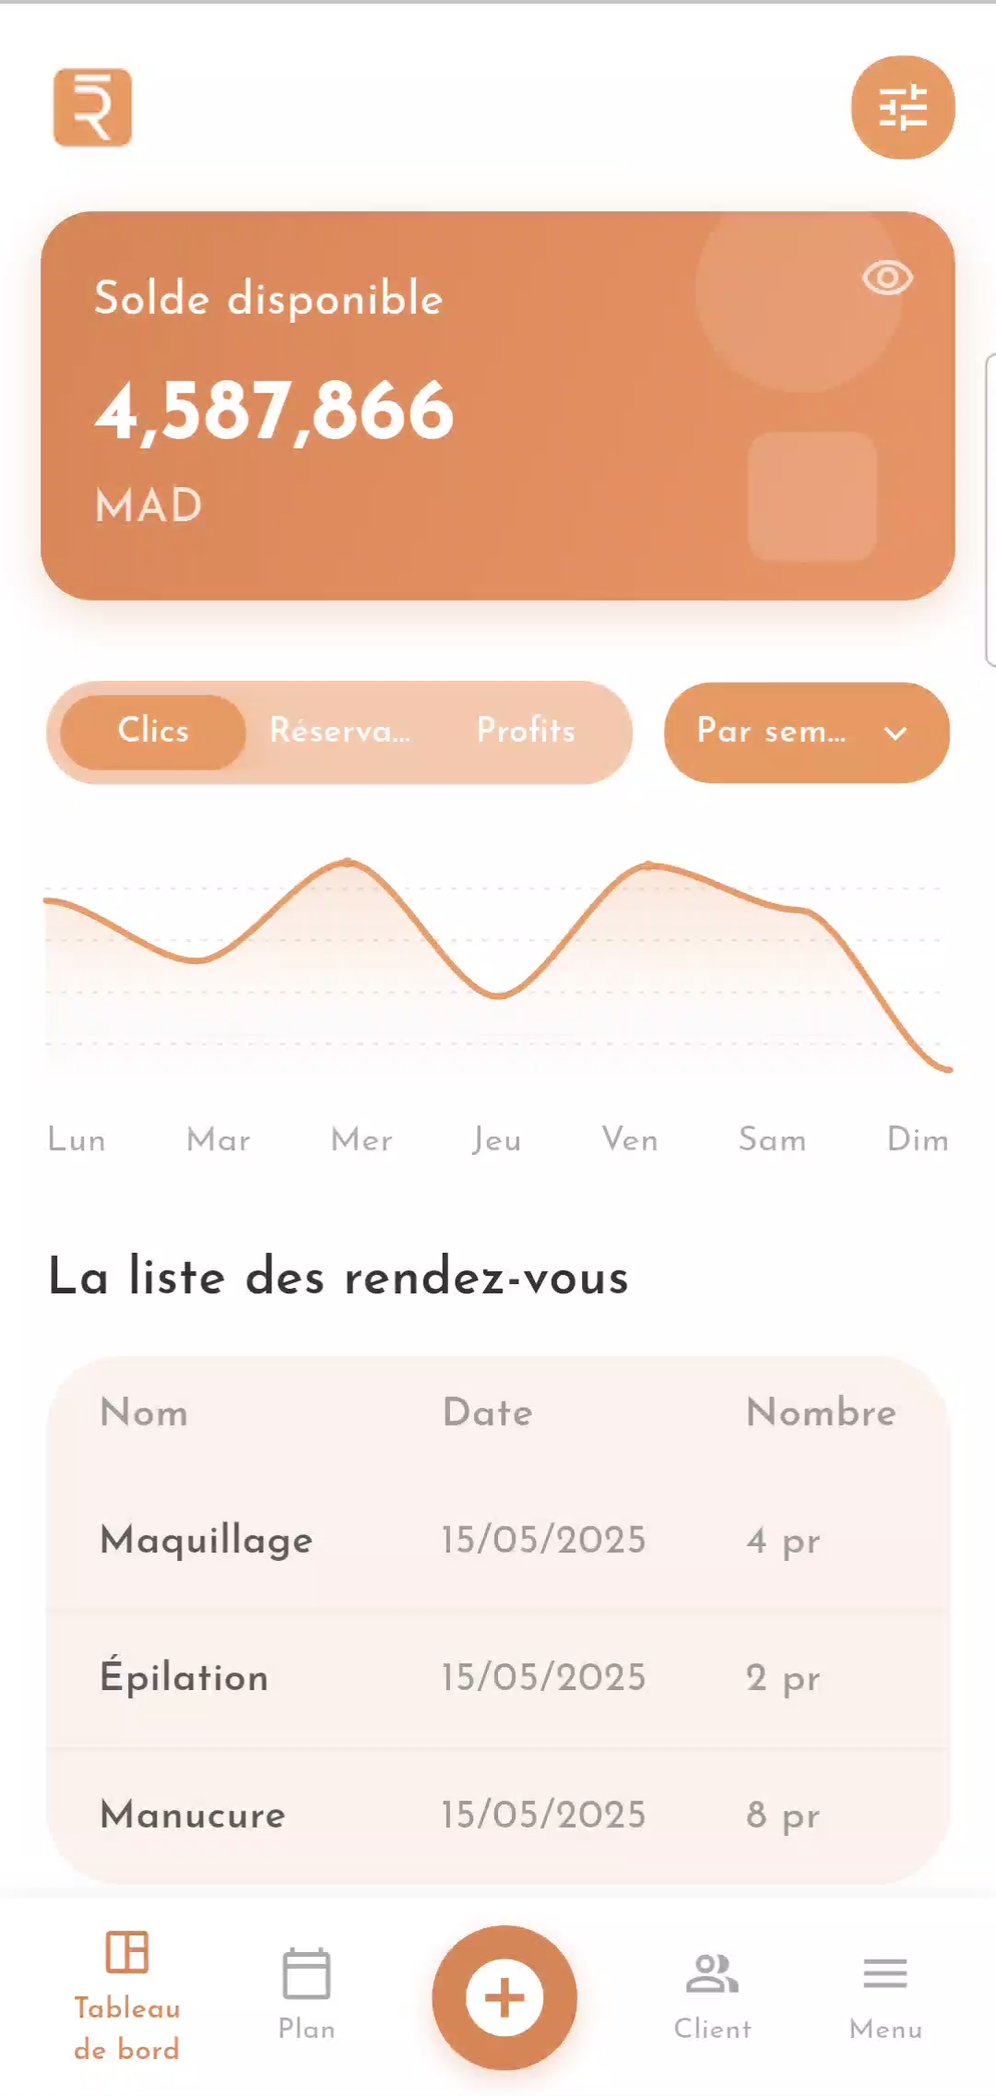
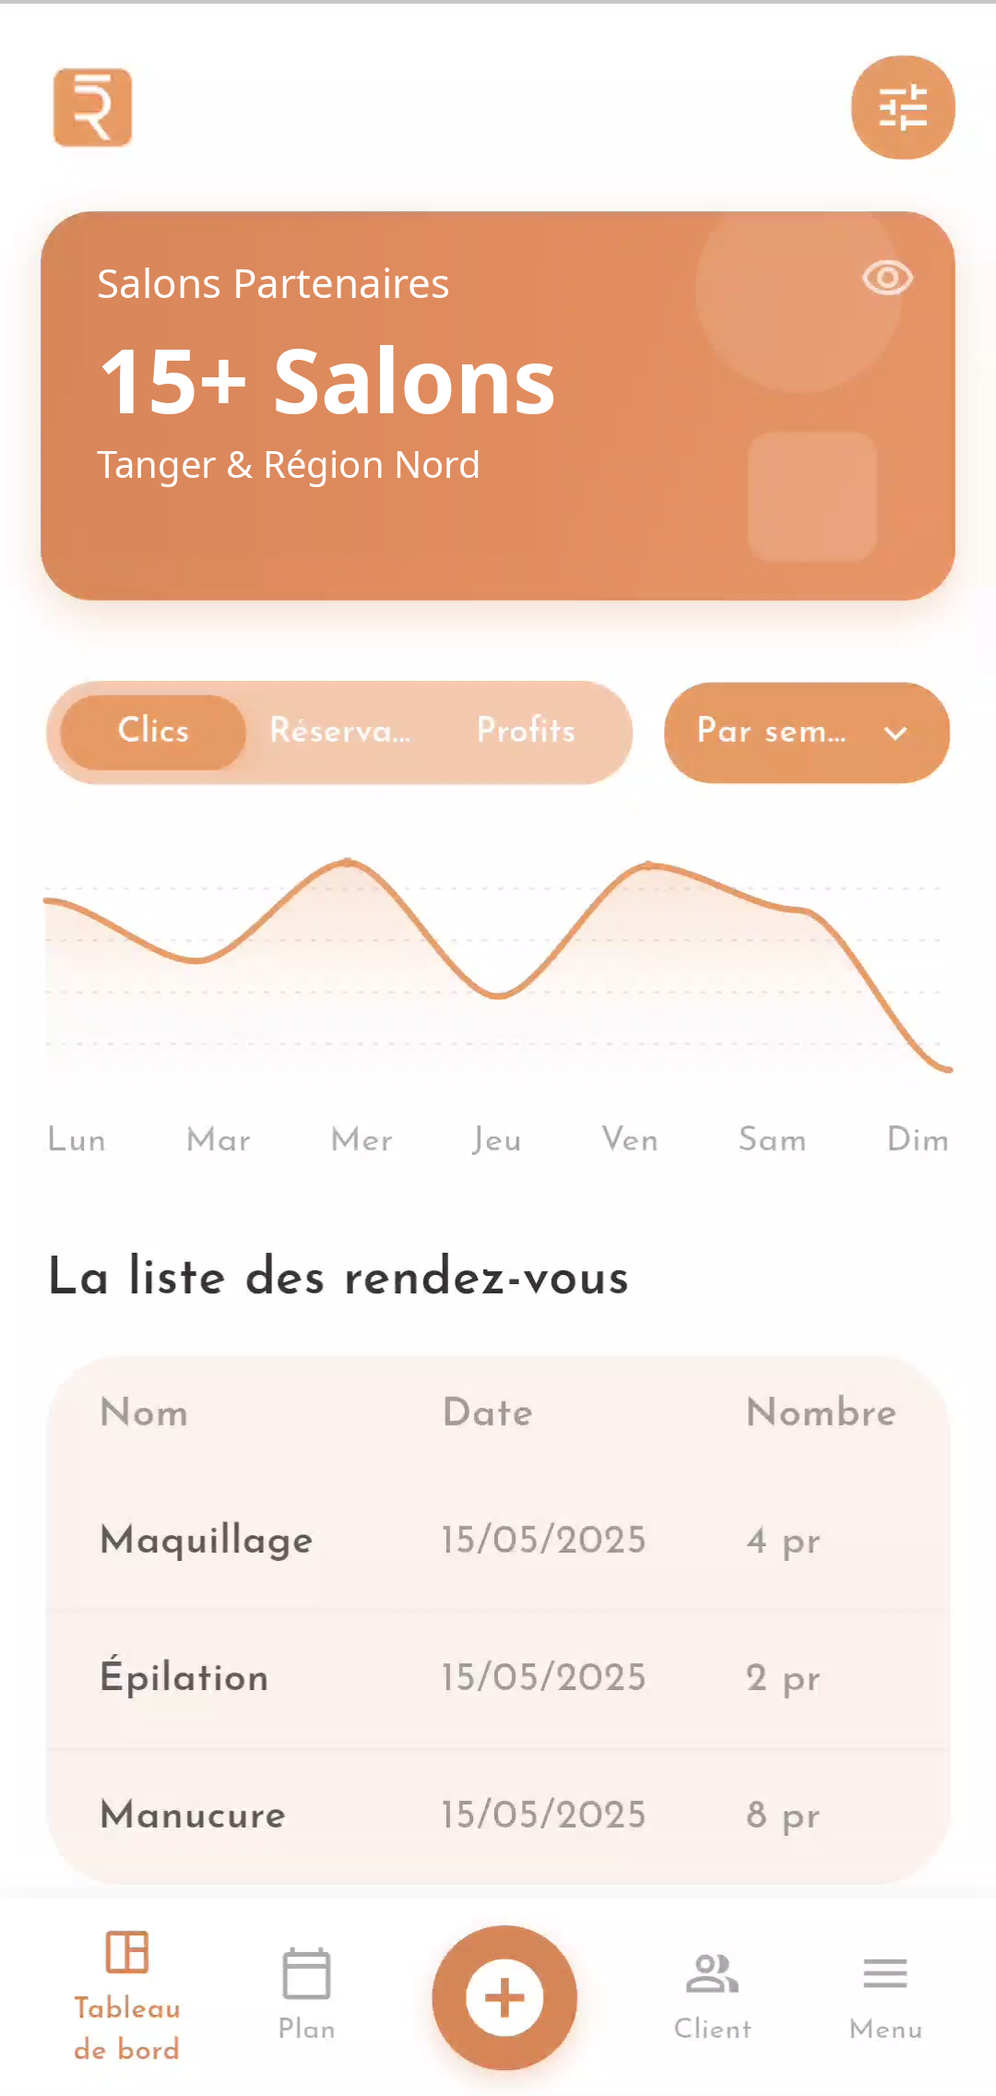
fix(phone-sim): uncrook screenshot display with edge-to-edge alignment and real salon metric in photo

Changed region(s): [[0.0917, 0.125, 0.55, 0.25], [0.9778, 0.1875, 1.0, 0.3125]]

diff --git a/src/components/mobile/PhoneFrame.tsx b/src/components/mobile/PhoneFrame.tsx
@@ -56,6 +56,8 @@ export const PhoneFrame: React.FC<Props> = memo(({ project }) => {
     touchStartXRef.current = null;
   };
 
+  const isScreenshotApp = project.id === 'resaly' || project.id === 'ridemate';
+
   return (
     <div className="relative flex flex-col items-center w-full">
       {/* Modern Flagship Smartphone Chassis with Responsive Max-Width */}
@@ -76,8 +78,10 @@ export const PhoneFrame: React.FC<Props> = memo(({ project }) => {
             : 'bg-[#000000] text-white border-white/5'
         }`}>
           {/* Status Bar */}
-          <div className={`pt-3 px-7 flex items-center justify-between text-[11px] font-semibold z-30 transition-colors ${
-            isLight ? 'text-[#4a3930]' : 'text-zinc-300'
+          <div className={`pt-3 px-6 flex items-center justify-between text-[11px] font-semibold z-30 transition-colors ${
+            isScreenshotApp 
+              ? isLight ? 'text-[#3a281e] bg-gradient-to-b from-white/70 to-transparent' : 'text-zinc-200 bg-gradient-to-b from-black/70 to-transparent'
+              : isLight ? 'text-[#4a3930]' : 'text-zinc-300'
           }`}>
             <span>09:41</span>
             
@@ -114,46 +118,71 @@ export const PhoneFrame: React.FC<Props> = memo(({ project }) => {
               )}
             </div>
 
-            <div className={`flex items-center gap-1.5 ${isLight ? 'text-[#7e695d]' : 'text-zinc-400'}`}>
-              <Wifi className={`w-3 h-3 ${isLight ? 'text-[#4a3930]' : 'text-zinc-200'}`} />
-              <span className={`text-[10px] font-mono font-bold ${isLight ? 'text-[#4a3930]' : 'text-zinc-300'}`}>5G</span>
-              <Battery className={`w-3.5 h-3.5 ${isLight ? 'text-[#4a3930]' : 'text-zinc-200'}`} />
+            <div className={`flex items-center gap-1.5 ${isScreenshotApp ? (isLight ? 'text-[#3a281e]' : 'text-zinc-200') : (isLight ? 'text-[#7e695d]' : 'text-zinc-400')}`}>
+              <Wifi className="w-3 h-3" />
+              <span className="text-[10px] font-mono font-bold">5G</span>
+              <Battery className="w-3.5 h-3.5" />
             </div>
           </div>
 
-          {/* SCREEN CONTENT AREA */}
-          <div className="flex-1 overflow-y-auto px-3.5 py-2 scrollbar-none">
-            {/* 1. RESALY PRO - FLUTTER PRODUCTION SCREENS */}
-            {project.id === 'resaly' && (
-              <div className="h-full flex flex-col justify-between space-y-2 animate-fadeIn">
-                {/* Clean Top Screen Bar */}
-                <div className="flex items-center justify-between px-1">
-                  <div>
-                    <span className="text-[11px] font-bold text-[#2a1b14] font-display">Resaly Pro</span>
-                    <span className="text-[10px] font-mono text-[#8c776b] ml-1.5">Flutter Client</span>
-                  </div>
-                  <span className="text-[10px] font-mono text-[#a45325] font-semibold">
-                    {selectedScreenshotIndex + 1} / {project.screenshots.length}
-                  </span>
-                </div>
-
-                {/* Screenshot Display Frame with Touch Gestures */}
-                <div
-                  onTouchStart={handleTouchStart}
-                  onTouchEnd={(e) => handleTouchEnd(e, project.screenshots.length)}
-                  className="relative rounded-2xl overflow-hidden border border-[#ead8cb] bg-[#f7eee6] shadow-md flex-1 min-h-[460px] sm:min-h-[490px] flex items-center justify-center group touch-pan-y"
-                >
-                  <img
-                    src={project.screenshots[selectedScreenshotIndex]?.imagePath || '/images/resaly/23613_edit.png'}
-                    alt={project.screenshots[selectedScreenshotIndex]?.title || 'Resaly Screen'}
-                    loading="eager"
-                    className="w-full h-full object-cover object-top"
+          {/* SCREEN CONTENT AREA: FULL EDGE-TO-EDGE FOR SCREENSHOT APPS */}
+          {isScreenshotApp ? (
+            <div 
+              onTouchStart={handleTouchStart}
+              onTouchEnd={(e) => handleTouchEnd(e, project.screenshots.length)}
+              className="absolute inset-0 w-full h-full overflow-hidden touch-pan-y"
+            >
+              {/* RideMate Video Player Override */}
+              {project.id === 'ridemate' && showRideMateVideo && project.videoUrl ? (
+                <div className="absolute inset-0 w-full h-full z-20 bg-black flex flex-col pt-12 pb-6">
+                  <iframe
+                    src={project.videoUrl}
+                    title="RideMate Video Demonstration"
+                    className="w-full h-full flex-1"
+                    allow="autoplay; encrypted-media"
                   />
+                </div>
+              ) : (
+                /* Native Edge-to-Edge Screenshot Image with Zero Crookedness */
+                <img
+                  src={project.screenshots[selectedScreenshotIndex]?.imagePath || '/images/resaly/23613_edit.png'}
+                  alt={project.screenshots[selectedScreenshotIndex]?.title || `${project.name} Screen`}
+                  loading="eager"
+                  className="w-full h-full object-cover object-top select-none animate-fadeIn"
+                />
+              )}
 
-                  {/* Left / Right Chevron Navigation with Accessible >=44px Hit Target */}
+              {/* RideMate Video / Screens Switcher Floating Pill */}
+              {project.id === 'ridemate' && project.videoUrl && (
+                <button
+                  onClick={() => setShowRideMateVideo(!showRideMateVideo)}
+                  className={`absolute top-12 right-3 z-30 px-2.5 py-1 rounded-lg text-[10px] font-mono font-semibold flex items-center gap-1.5 shadow-lg backdrop-blur-md border transition-all active:scale-95 ${
+                    showRideMateVideo
+                      ? 'bg-[#c2f019] text-black border-[#c2f019]'
+                      : 'bg-black/75 text-white border-white/25 hover:bg-black/90'
+                  }`}
+                  aria-label={showRideMateVideo ? 'Basculer vers les captures d’écran' : 'Lire la démonstration vidéo'}
+                >
+                  {showRideMateVideo ? (
+                    <>
+                      <ImageIcon className="w-3 h-3" />
+                      <span>Screens</span>
+                    </>
+                  ) : (
+                    <>
+                      <Play className="w-3 h-3 text-[#c2f019] fill-[#c2f019]" />
+                      <span>Vidéo Démo</span>
+                    </>
+                  )}
+                </button>
+              )}
+
+              {/* Left / Right Chevron Navigation Controls with Accessible Hit Target */}
+              {(!showRideMateVideo || project.id !== 'ridemate') && (
+                <>
                   <button
                     onClick={() => setSelectedScreenshotIndex((prev) => (prev > 0 ? prev - 1 : project.screenshots.length - 1))}
-                    className="absolute left-2 top-1/2 -translate-y-1/2 w-9 h-9 sm:w-10 sm:h-10 rounded-full bg-white/95 border border-[#ead8cb] text-[#2a1b14] flex items-center justify-center opacity-85 hover:opacity-100 shadow-md transition-all active:scale-95 focus-visible:outline-none focus-visible:ring-2 focus-visible:ring-[#de854f] relative before:absolute before:-inset-2 before:content-['']"
+                    className="absolute left-2.5 top-1/2 -translate-y-1/2 z-30 w-9 h-9 sm:w-10 sm:h-10 rounded-full bg-black/60 hover:bg-black/85 backdrop-blur-md border border-white/20 text-white flex items-center justify-center opacity-80 hover:opacity-100 shadow-xl transition-all active:scale-95 focus-visible:outline-none focus-visible:ring-2 focus-visible:ring-white"
                     title="Écran précédent"
                     aria-label="Écran précédent"
                   >
@@ -161,154 +190,47 @@ export const PhoneFrame: React.FC<Props> = memo(({ project }) => {
                   </button>
                   <button
                     onClick={() => setSelectedScreenshotIndex((prev) => (prev < project.screenshots.length - 1 ? prev + 1 : 0))}
-                    className="absolute right-2 top-1/2 -translate-y-1/2 w-9 h-9 sm:w-10 sm:h-10 rounded-full bg-white/95 border border-[#ead8cb] text-[#2a1b14] flex items-center justify-center opacity-85 hover:opacity-100 shadow-md transition-all active:scale-95 focus-visible:outline-none focus-visible:ring-2 focus-visible:ring-[#de854f] relative before:absolute before:-inset-2 before:content-['']"
+                    className="absolute right-2.5 top-1/2 -translate-y-1/2 z-30 w-9 h-9 sm:w-10 sm:h-10 rounded-full bg-black/60 hover:bg-black/85 backdrop-blur-md border border-white/20 text-white flex items-center justify-center opacity-80 hover:opacity-100 shadow-xl transition-all active:scale-95 focus-visible:outline-none focus-visible:ring-2 focus-visible:ring-white"
                     title="Écran suivant"
                     aria-label="Écran suivant"
                   >
                     <ChevronRight className="w-5 h-5" />
                   </button>
 
-                  {/* Minimal Caption Sheet Overlay */}
-                  <div className="absolute inset-x-2 bottom-2 p-3 rounded-xl bg-white/95 backdrop-blur-md border border-[#ead8cb] shadow-lg text-left">
-                    <p className="text-xs font-bold text-[#2a1b14] truncate">
-                      {project.screenshots[selectedScreenshotIndex]?.title}
-                    </p>
-                    <p className="text-[11px] text-[#8c776b] line-clamp-1 mt-0.5">
-                      {project.screenshots[selectedScreenshotIndex]?.caption}
-                    </p>
-
-                    {/* Pagination Indicator Dots with Accessible Tap Area */}
-                    <div className="flex items-center justify-center gap-1 pt-2" role="group" aria-label="Sélecteur d'écran">
-                      {project.screenshots.map((s, idx) => (
-                        <button
-                          key={idx}
-                          onClick={() => setSelectedScreenshotIndex(idx)}
-                          className="p-1.5 relative flex items-center justify-center rounded-full focus-visible:outline-none focus-visible:ring-2 focus-visible:ring-[#de854f]"
-                          aria-label={`Aller à l'écran ${idx + 1}: ${s.title}`}
-                          aria-current={selectedScreenshotIndex === idx ? 'true' : undefined}
-                        >
-                          <span
-                            className={`block h-1.5 rounded-full transition-all ${
-                              selectedScreenshotIndex === idx ? 'w-5 bg-[#de854f]' : 'w-1.5 bg-[#de854f]/30 hover:bg-[#de854f]/60'
-                            }`}
-                          />
-                        </button>
-                      ))}
-                    </div>
-                  </div>
-                </div>
-              </div>
-            )}
-
-            {/* 2. RIDEMATE - REACT NATIVE SCREENS & OPTIONAL IN-PHONE VIDEO */}
-            {project.id === 'ridemate' && (
-              <div className="h-full flex flex-col justify-between space-y-2 animate-fadeIn">
-                {/* Clean Top Screen Bar with Video Toggle */}
-                <div className="flex items-center justify-between px-1">
-                  <div className="flex items-center gap-2">
-                    <span className="text-[11px] font-bold text-white font-display">RideMate</span>
-                    <span className="text-[10px] font-mono text-zinc-400">React Native</span>
-                  </div>
-
-                  {project.videoUrl && (
-                    <button
-                      onClick={() => setShowRideMateVideo(!showRideMateVideo)}
-                      className={`px-2 py-0.5 rounded text-[10px] font-mono font-semibold flex items-center gap-1 border transition-all ${
-                        showRideMateVideo
-                          ? 'bg-[#c2f019] text-black border-[#c2f019]'
-                          : 'bg-white/5 text-zinc-300 border-white/10 hover:text-white'
-                      }`}
-                    >
-                      {showRideMateVideo ? (
-                        <>
-                          <ImageIcon className="w-3 h-3" />
-                          <span>Screens</span>
-                        </>
-                      ) : (
-                        <>
-                          <Play className="w-3 h-3 text-[#c2f019] fill-[#c2f019]" />
-                          <span>Vidéo</span>
-                        </>
-                      )}
-                    </button>
-                  )}
-                </div>
-
-                {/* Main Display: Video Player OR Screenshot Carousel */}
-                {showRideMateVideo && project.videoUrl ? (
-                  <div className="relative rounded-2xl overflow-hidden border border-white/15 bg-black shadow-xl flex-1 min-h-[490px] flex flex-col">
-                    <iframe
-                      src={project.videoUrl}
-                      title="RideMate Video Demonstration"
-                      className="w-full h-full flex-1"
-                      allow="autoplay; encrypted-media"
-                    />
-                  </div>
-                ) : (
-                  <div
-                    onTouchStart={handleTouchStart}
-                    onTouchEnd={(e) => handleTouchEnd(e, project.screenshots.length)}
-                    className="relative rounded-2xl overflow-hidden border border-white/15 bg-black shadow-xl flex-1 min-h-[460px] sm:min-h-[490px] flex items-center justify-center group touch-pan-y"
+                  {/* Floating Pagination Indicator Dots above Home Bar */}
+                  <div 
+                    role="group" 
+                    aria-label="Sélecteur d'écran"
+                    className="absolute bottom-5 left-1/2 -translate-x-1/2 z-30 px-3 py-1.5 rounded-full bg-black/65 backdrop-blur-md border border-white/20 flex items-center gap-1.5 shadow-xl"
                   >
-                    <img
-                      src={project.screenshots[selectedScreenshotIndex]?.imagePath || '/images/ridemate/ridemate-dashboard.png'}
-                      alt={project.screenshots[selectedScreenshotIndex]?.title || 'RideMate Screen'}
-                      loading="eager"
-                      className="w-full h-full object-cover object-top"
-                    />
-
-                    {/* Navigation Arrows with Accessible >=44px Hit Target */}
-                    <button
-                      onClick={() => setSelectedScreenshotIndex((prev) => (prev > 0 ? prev - 1 : project.screenshots.length - 1))}
-                      className="absolute left-2 top-1/2 -translate-y-1/2 w-9 h-9 sm:w-10 sm:h-10 rounded-full bg-black/85 border border-white/25 text-white flex items-center justify-center opacity-85 hover:opacity-100 shadow-md transition-all active:scale-95 focus-visible:outline-none focus-visible:ring-2 focus-visible:ring-[#c2f019] relative before:absolute before:-inset-2 before:content-['']"
-                      title="Écran précédent"
-                      aria-label="Écran précédent"
-                    >
-                      <ChevronLeft className="w-5 h-5" />
-                    </button>
-                    <button
-                      onClick={() => setSelectedScreenshotIndex((prev) => (prev < project.screenshots.length - 1 ? prev + 1 : 0))}
-                      className="absolute right-2 top-1/2 -translate-y-1/2 w-9 h-9 sm:w-10 sm:h-10 rounded-full bg-black/85 border border-white/25 text-white flex items-center justify-center opacity-85 hover:opacity-100 shadow-md transition-all active:scale-95 focus-visible:outline-none focus-visible:ring-2 focus-visible:ring-[#c2f019] relative before:absolute before:-inset-2 before:content-['']"
-                      title="Écran suivant"
-                      aria-label="Écran suivant"
-                    >
-                      <ChevronRight className="w-5 h-5" />
-                    </button>
-
-                    {/* Minimal Caption Sheet Overlay */}
-                    <div className="absolute inset-x-2 bottom-2 p-3 rounded-xl bg-black/90 backdrop-blur-md border border-white/15 shadow-lg text-left">
-                      <p className="text-xs font-bold text-white truncate">
-                        {project.screenshots[selectedScreenshotIndex]?.title}
-                      </p>
-                      <p className="text-[11px] text-zinc-400 line-clamp-1 mt-0.5">
-                        {project.screenshots[selectedScreenshotIndex]?.caption}
-                      </p>
-
-                      {/* Pagination Indicator Dots with Accessible Tap Area */}
-                      <div className="flex items-center justify-center gap-1 pt-2" role="group" aria-label="Sélecteur d'écran">
-                        {project.screenshots.map((s, idx) => (
-                          <button
-                            key={idx}
-                            onClick={() => setSelectedScreenshotIndex(idx)}
-                            className="p-1.5 relative flex items-center justify-center rounded-full focus-visible:outline-none focus-visible:ring-2 focus-visible:ring-[#c2f019]"
-                            aria-label={`Aller à l'écran ${idx + 1}: ${s.title}`}
-                            aria-current={selectedScreenshotIndex === idx ? 'true' : undefined}
-                          >
-                            <span
-                              className={`block h-1.5 rounded-full transition-all ${
-                                selectedScreenshotIndex === idx ? 'w-5 bg-[#c2f019]' : 'w-1.5 bg-white/30 hover:bg-white/60'
-                              }`}
-                            />
-                          </button>
-                        ))}
-                      </div>
-                    </div>
+                    {project.screenshots.map((s, idx) => (
+                      <button
+                        key={idx}
+                        onClick={() => setSelectedScreenshotIndex(idx)}
+                        className="p-1 relative flex items-center justify-center rounded-full focus-visible:outline-none"
+                        aria-label={`Aller à l'écran ${idx + 1}: ${s.title}`}
+                        aria-current={selectedScreenshotIndex === idx ? 'true' : undefined}
+                      >
+                        <span
+                          className={`block h-1.5 rounded-full transition-all ${
+                            selectedScreenshotIndex === idx
+                              ? project.id === 'resaly' ? 'w-5 bg-[#de854f]' : 'w-5 bg-[#c2f019]'
+                              : 'w-1.5 bg-white/40 hover:bg-white/70'
+                          }`}
+                        />
+                      </button>
+                    ))}
                   </div>
-                )}
-              </div>
-            )}
 
-            {/* 3. ZEPHYR - MUSIC TELEMETRY DASHBOARD */}
+                  {/* Bottom Home Indicator Bar on Screenshot */}
+                  <div className={`absolute bottom-1.5 left-1/2 -translate-x-1/2 z-30 w-32 h-1 rounded-full ${isLight ? 'bg-black/25' : 'bg-white/40'}`} />
+                </>
+              )}
+            </div>
+          ) : (
+            /* INTERACTIVE CODE MOCKUPS: ZEPHYR & HEALTHSPHERE */
+            <div className="flex-1 overflow-y-auto px-3.5 py-2 scrollbar-none">
+              {/* 3. ZEPHYR - MUSIC TELEMETRY DASHBOARD */}
             {project.id === 'zephyr' && (
               <div className="space-y-3 pt-1 animate-fadeIn text-left">
                 {/* Header */}
@@ -505,13 +427,35 @@ export const PhoneFrame: React.FC<Props> = memo(({ project }) => {
               </div>
             )}
           </div>
+        )}
 
-          {/* Device Home Indicator Bar */}
-          <div className="py-2 flex justify-center z-30">
-            <div className={`w-32 h-1 rounded-full ${isLight ? 'bg-black/25' : 'bg-white/40'}`} />
-          </div>
+          {/* Device Home Indicator Bar (for interactive code apps) */}
+          {!isScreenshotApp && (
+            <div className="py-2 flex justify-center z-30">
+              <div className={`w-32 h-1 rounded-full ${isLight ? 'bg-black/25' : 'bg-white/40'}`} />
+            </div>
+          )}
         </div>
       </div>
+
+      {/* Screen Caption & Story Card Below Phone Frame */}
+      {isScreenshotApp && project.screenshots && project.screenshots.length > 0 && !showRideMateVideo && (
+        <div className={`mt-3 w-full max-w-[340px] sm:max-w-[360px] p-3.5 rounded-2xl border text-left transition-all shadow-sm ${project.themeStyle.cardBg} ${project.themeStyle.cardBorder}`}>
+          <div className="flex items-center justify-between gap-2">
+            <h4 className="text-xs font-bold truncate font-display" style={{ color: project.themeStyle.accentHex }}>
+              {project.screenshots[selectedScreenshotIndex]?.title}
+            </h4>
+            <span className={`text-[10px] font-mono px-2 py-0.5 rounded font-semibold ${
+              isLight ? 'bg-black/5 text-[#8c776b]' : 'bg-white/10 text-zinc-300'
+            }`}>
+              {selectedScreenshotIndex + 1} / {project.screenshots.length}
+            </span>
+          </div>
+          <p className={`text-xs mt-1 leading-relaxed ${project.themeStyle.textMuted}`}>
+            {project.screenshots[selectedScreenshotIndex]?.caption}
+          </p>
+        </div>
+      )}
     </div>
   );
 });
